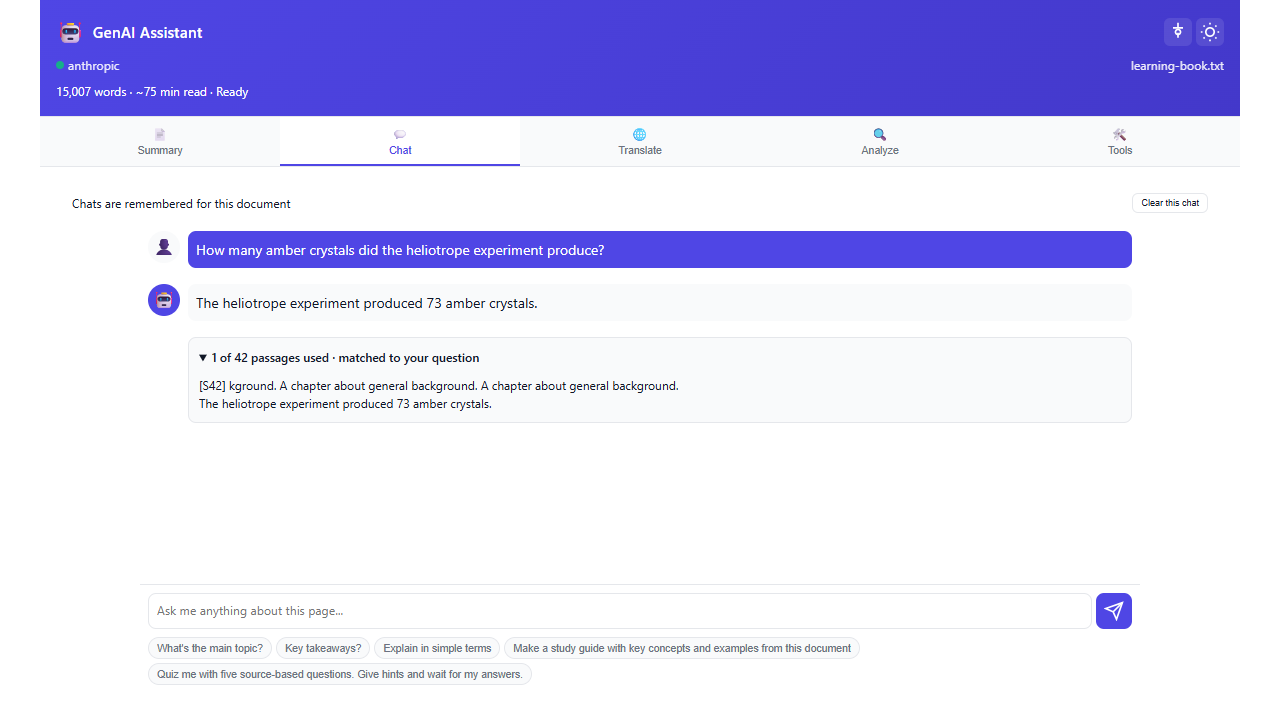
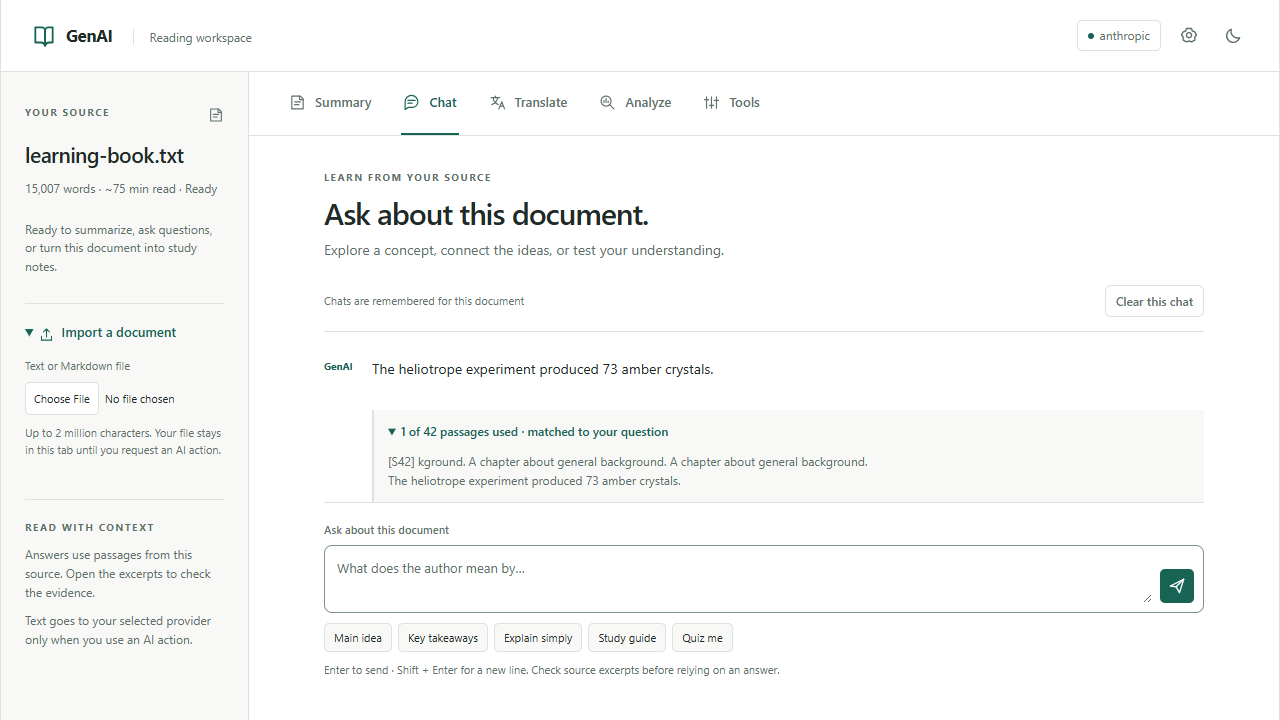
docs(#36): show the reading interface and checks

diff --git a/docs/product/INTERFACE.md b/docs/product/INTERFACE.md
@@ -1,0 +1,66 @@
+# Reading interface: decisions and verification
+
+The [#36 milestone](https://github.com/aaron-seq/GenAI-Browser-Tool/issues/36)
+replaces the gradient/emoji interface with a quiet reading desk. The source stays
+beside the five tools on wide screens and above them on narrow screens. Task
+labels describe actions; provider, memory, coverage, and source excerpts stay visible.
+
+![Summary workspace](images/reading-summary.png)
+
+## Design decisions
+
+- Neutral surfaces, a restrained teal accent, system fonts, and local inline SVG
+  icons. No font requests, runtime dependency, or permission was added.
+- Main content has a bounded reading width. The chat composer fits the tested
+  1280 × 720 desktop view; conversation history scrolls separately.
+- Short study labels retain their full prompts in `data-prompt`. Import stays
+  available while using another task. Existing history and provider routes are reused.
+- Native radios remain focusable, with a visible group focus indicator. Tabs
+  expose selected/hidden states and follow the [WAI tabs pattern](https://www.w3.org/WAI/ARIA/apg/patterns/tabs/).
+  Focus remains in the tab list; Tab enters the selected panel.
+- [Visible focus](https://www.w3.org/WAI/WCAG22/Understanding/focus-visible.html),
+  reduced motion, forced colors, and light/dark tokens have explicit treatment.
+  Calculated muted-text contrast against the page is 5.22:1 light / 7.55:1 dark;
+  input-boundary contrast is 3.21:1 / 4.41:1. This is a token check, not a complete
+  accessibility conformance audit or a screen-reader test.
+
+The [Comet product page](https://www.perplexity.ai/comet) provides context for
+page-based assistance and learning. It was inspected as a product reference;
+no comparative usability, live-model quality, or latency test was performed.
+
+## Verification — 23 October 2026
+
+Local Windows / Node 22.18.0 / npm 11.6.2 results:
+
+| Command / check                                                                                                     | Observed result                                                                                       |
+| ------------------------------------------------------------------------------------------------------------------- | ----------------------------------------------------------------------------------------------------- |
+| `npm run verify` on main b584f4e                                                                                    | Lint/typecheck and 297 tests pass before changes.                                                     |
+| `npx vitest run tests/popup/interface.test.js -t 'selected tab\|complete study prompt'` on test-only commit f6f9e2b | Both new cases fail before implementation.                                                            |
+| `npx playwright test tests/e2e/reading-interface.spec.js` before implementation                                     | Cannot locate the hidden summary radio through its accessible role; fails.                            |
+| `npm run lint -- --max-warnings 0`; `npm run typecheck`                                                             | Pass.                                                                                                 |
+| `npm run test:coverage`                                                                                             | 299 tests pass; 94.53% statements, 83.73% branches, 94.71% functions, 96.70% lines. Floors unchanged. |
+| `npm run test:e2e`                                                                                                  | 19 real-Chromium tests pass; provider responses are intercepted.                                      |
+| Final affected popup tests and two workspace/interface browser tests                                                | Pass after copy/contrast/layout refinements.                                                          |
+| `npm audit --audit-level=high`                                                                                      | Zero vulnerabilities reported.                                                                        |
+
+The [unit tests](../../tests/popup/interface.test.js) verify tab semantics/focus,
+full study prompts, empty/result transitions, and existing task behavior. The
+[browser test](../../tests/e2e/reading-interface.spec.js) checks native radio
+keyboard operation, panel focus order, all five tabs at 768/400/320px widths,
+theme switching, source extraction in the 400px popup, and horizontal overflow.
+Screenshots were generated by these browser tests and visually inspected. Opening a source
+excerpt scrolls it into view within the conversation. A new browser assertion failed
+before that adjustment (viewport intersection 0) and passes with the excerpt fully visible.
+
+Global branch coverage is 83.73% versus the prior published 84.05%; the added UI
+branches are not all exercised by the unit suite. The source-scroll callback is
+verified in the real browser test. Existing tests and thresholds are preserved.
+
+![Dark conversation workspace](images/reading-dark.png)
+
+No provider speed improvement is claimed. Native toolbar activation, real
+screen readers, Edge, OS notifications, real browser zoom, and live-model quality
+were not tested. The settings/onboarding design remains in
+[#37](https://github.com/aaron-seq/GenAI-Browser-Tool/issues/37); the separately
+reproduced notification read-failure gap is in
+[#38](https://github.com/aaron-seq/GenAI-Browser-Tool/issues/38).

diff --git a/README.md b/README.md
@@ -10,6 +10,12 @@ server or telemetry.
 The screenshot is from an automated browser test with an intercepted AI response.
 It demonstrates the interface, not live model quality.
 
+The reading workspace keeps your source beside the tools, with light and dark
+themes and a compact popup. Use **Study guide** or **Quiz me** in Chat to start
+learning. Navigate task tabs with Left/Right, Home, and End; Tab moves into the
+selected panel. Summary length works with native radio-keyboard controls.
+See the [interface decisions and verification](docs/product/INTERFACE.md).
+
 ## Start here
 
 ```bash
@@ -37,7 +43,7 @@ dependencies. It is currently installed unpacked, not published in the Web Store
 
 | Action                 | Behavior                                                                                                                                                      |
 | ---------------------- | ------------------------------------------------------------------------------------------------------------------------------------------------------------- |
-| Summary                | Key points, TL;DR, executive, or technical; four lengths. Matching saved results are reused without another provider call.                                    |
+| Summary                | Key points, TL;DR, executive, or technical; three lengths. Matching saved results are reused without another provider call.                                   |
 | Chat and study prompts | Search passages across the extracted document, send up to six passages to the model, and show their source labels and excerpts.                               |
 | Remember this document | Restore the latest summary and up to 30 completed exchanges for the same URL and unchanged text. **Clear this chat** deletes that document's saved exchanges. |
 | Import text            | Workspace accepts `.txt`/`.md`, up to 2,000,000 characters and 8 MB. Reimporting the same filename and text restores its thread.                              |
@@ -103,6 +109,9 @@ Options apply immediately: disabling context menus removes the right-click
 actions; the keyboard shortcut remains available. Disabling notifications
 suppresses desktop notices, including errors and shortcut results. Popup and
 workspace results remain visible. See the [preference fix](https://github.com/aaron-seq/GenAI-Browser-Tool/issues/31).
+
+A failed settings read can bypass desktop-notification opt-out. This remaining
+failure-path bug is tracked in [#38](https://github.com/aaron-seq/GenAI-Browser-Tool/issues/38).
 
 ## Troubleshooting
 

diff --git a/CHANGELOG.md b/CHANGELOG.md
@@ -9,6 +9,8 @@ and this project adheres to [Semantic Versioning](https://semver.org/spec/v2.0.0
 
 ### Fixed
 
+- Restore keyboard access to summary-length radios and expose task-tab selection,
+  panel relationships, and Arrow/Home/End navigation (#36).
 - Apply context-menu and desktop-notification preferences in the worker, including
   settings changes, stale clicks, and opt-out during an in-flight request (#31).
 - Patch Vitest and matching coverage packages to 4.1.12 and Vite to 8.2.4 for
@@ -23,6 +25,9 @@ and this project adheres to [Semantic Versioning](https://semver.org/spec/v2.0.0
 
 ### Added
 
+- A redesigned popup and reading workspace with a persistent source panel,
+  neutral/teal light and dark themes, local SVG icons, clear task labels,
+  compact study prompts, and responsive layouts (#36).
 - A read-only CI guard rejects a stacked PR whose base is already contained in
   the default branch, with Git-history regression tests (issue #22).
 - Service-worker regression tests for startup failure, page context menus,

diff --git a/docs/product/PRODUCT.md b/docs/product/PRODUCT.md
@@ -1,6 +1,6 @@
 # Reading and learning workspace
 
-Updated 20 October 2026 for version 5.3.0. This is the maintained product brief;
+Updated 23 October 2026 for the unreleased interface revision. This is the maintained product brief;
 the [supplied engineering brief](ENGINEERING-BRIEF.md) is preserved separately.
 
 ## Objective
@@ -19,6 +19,9 @@ repeat work fast without representing sampled evidence as complete understanding
   keyed by content, provider, model, style, and length.
 - Persisted language selection, explicit coverage notices, and optional provider
   connection tests using the entered configuration.
+- A restrained reading interface, persistent source panel, keyboard-accessible
+  tabs and summary lengths, and short study actions. See the
+  [interface decisions and evidence](INTERFACE.md).
 
 [README](../../README.md) explains installation and use. [Browser tests](../../tests/e2e/learning-workspace.spec.js)
 demonstrate these flows with intercepted provider responses. They do not prove
